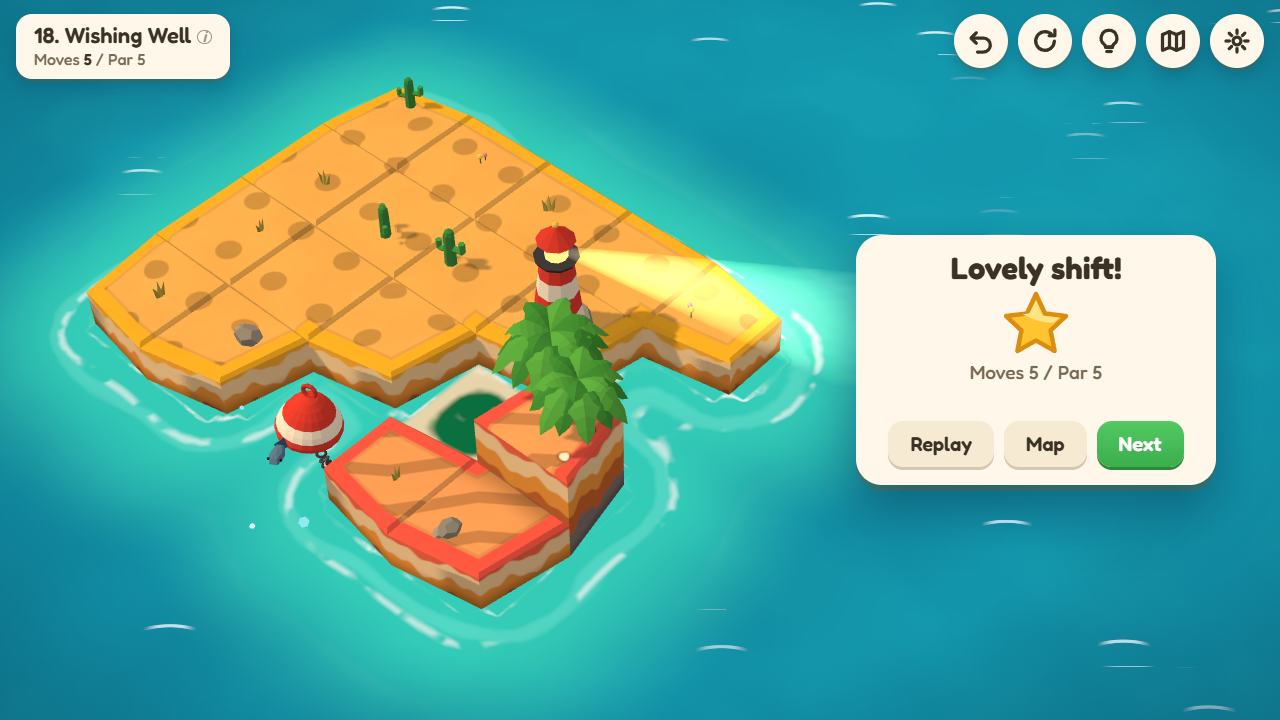
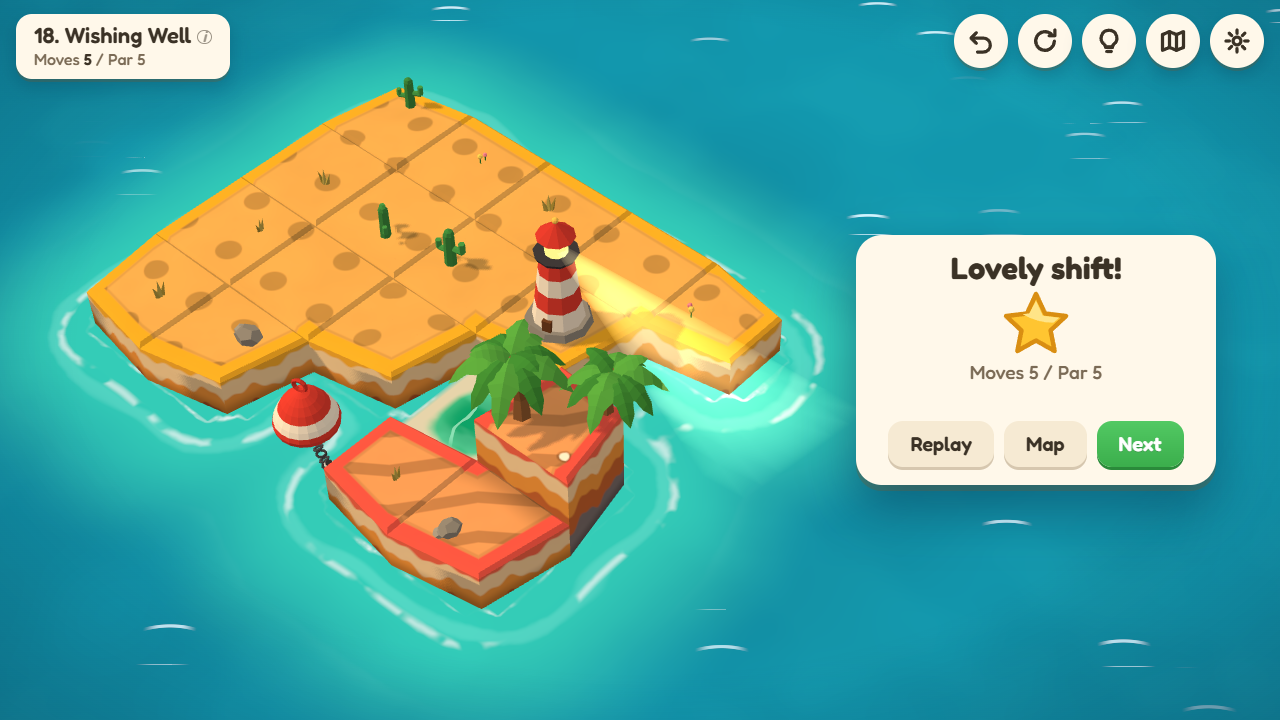
Lake, palms, penguins and plate colours closer to the concepts; numbered locked pins
The lake was a dark sheet with pale dots: now clear jade with ripples and no surf. Palms read as two trees, penguins as three birds, meadow plates differ by surface as well as border, and the map numbers its locked islands. Press shots re-rendered.

Changed region(s): [[0.3125, 0.3056, 0.6875, 0.6417], [0.1875, 0.5194, 0.2812, 0.6417], [0.2188, 0.7028, 0.25, 0.7333]]

diff --git a/game/src/render/ocean.ts b/game/src/render/ocean.ts
@@ -169,9 +169,14 @@ const FRAG = /* glsl */`
     col += vec3(.62)*wl;
     // lake: still, green-teal water, its own colour
     // a sandy rim and a green unlike any sea, so a lake can't be taken for the shallows
-    vec3 lake = uLake*(.92+.2*n2) + vec3(.03,.09,.06)*smoothstep(.74,.98,sin(d*9.-t*.8+n2*3.));
+    // clear jade, luminous in the shallows: what an oasis longs for, where a dark green read as a swamp (playtest 15; concepts/lake-oasis-v1.png)
+    vec3 lake = mix(uLake + vec3(.05,.17,.09), uLake, smoothstep(.14,.3,d))*(.97+.06*n2);
+    // water, not a green floor: thin ripples drifting across it and a soft sheen (concept critic T1, Nov 6)
+    float rip = smoothstep(.93,.99,sin((p.x*.75-p.y*.66)*17.+fbm(p*2.3+vec2(t*.05,0.))*7.-t*.5));
+    lake += vec3(.26,.34,.3)*rip*smoothstep(.15,.3,d) + vec3(.05,.1,.08)*smoothstep(.5,.72,fbm(p*vec2(1.6,4.2)+vec2(t*.03,-t*.02)));
+    // a few small dark pads: pale round ones were the same mark as the plates' dots and the peaks' corner dots
     vec2 lp = p*2.2; vec2 li = floor(lp); float lr = h21(li+5.);
-    lake = mix(lake, vec3(.5,.86,.36), step(.62,lr)*(1.-smoothstep(.19,.22,length(fract(lp)-.5-(vec2(h21(li+9.),h21(li+2.))-.5)*.4))));
+    lake = mix(lake, vec3(.1,.46,.25), step(.84,lr)*(1.-smoothstep(.12,.145,length(fract(lp)-.5-(vec2(h21(li+9.),h21(li+2.))-.5)*.4))));
     lake = mix(lake, vec3(.8,.66,.4), smoothstep(.2,.13,d));
     col = mix(col, lake, m.g);
     // rift floor before the sea reaches it
@@ -193,7 +198,7 @@ const FRAG = /* glsl */`
     }
     // under land nobody sees water, except where a hidden neighbour stands: there it must be plain sea, not a raft of foam
     float fm = max(max(foam, ring*.5)*(1.-wet), front*.9)*smoothstep(0.,.04,dist);
-    col = mix(col, vec3(.96,.99,1.), fm*(1.-.35*m.g));
+    col = mix(col, vec3(.96,.99,1.), fm*(1.-m.g)); // a still lake has no surf: this foam read as chalk on it (critic T1, Nov 6)
     gl_FragColor = vec4(col,1.);
     #include <colorspace_fragment>
   }
@@ -207,7 +212,7 @@ export class Ocean {
       uTime: time, uAlone: { value: 0 }, uStatic: { value: staticMask.tex }, uStaticB: { value: staticMask.bounds },
       uActive: { value: activeMask.tex }, uActiveB: { value: activeMask.bounds },
       uDeep: { value: new Color('#0e7fae') }, uShallow: { value: new Color('#1fcdcf') },
-      uLake: { value: new Color('#0b6f3f') }, uFloor: { value: new Color('#b58a57') }, uRange: { value: MASK_RANGE }, uMotion: { value: 1 },
+      uLake: { value: new Color('#0fa467') }, uFloor: { value: new Color('#b58a57') }, uRange: { value: MASK_RANGE }, uMotion: { value: 1 },
     };
     const g = new PlaneGeometry(6000, 6000); g.rotateX(-Math.PI / 2);
     this.mesh = new Mesh(g, new ShaderMaterial({ vertexShader: VERT, fragmentShader: FRAG, uniforms: this.uniforms }));

diff --git a/game/src/render/creatures.ts b/game/src/render/creatures.ts
@@ -119,12 +119,12 @@ export class Creature {
       const chain = mesh(M.buoyChain); chain.userData.noXray = true; this.root.add(chain); // on the root: the chain stays down when the buoy bobs or leans. No silhouette: through land its links drew as tangled loops (taste critic, Nov 5)
       for (let i = 0; i < 2; i++) { const f = mesh(M.fish, false); f.visible = false; this.root.add(f); this.fish.push({ m: f, t: 9, a: Math.random() * 6 }); }
     } else if (this.kind === 'oasis') {
-      for (const [dx, dz, s, r] of [[-.2, -.12, 1.05, .4], [.18, .08, .92, 2.8]] as const) {
+      for (const [dx, dz, s, r] of [[-.2, .11, 1.05, 2.6], [.2, -.11, .92, -.5]] as const) { // apart across the view, so two crowns read as two trees
         const g = new Group(); g.position.set(dx, 0, dz); g.scale.setScalar(s); g.rotation.y = r;
         const ok = mesh(M.palm), wilt = mesh(M.palmWilt); g.add(ok, wilt); b.add(g); this.palms.push({ ok, wilt, g });
       }
     } else {
-      for (const [x, z, a] of [[-.17, -.1, .4], [.17, -.06, -.3], [0, .17, .1]] as const) {
+      for (const [x, z, a] of [[-.21, .02, .4], [.2, -.14, -.3], [.06, .2, .1]] as const) { // spread across the cell as the camera sees it: at normal size the old huddle was one dark lump (concept critic T4, Nov 6)
         const g = new Group(); g.add(mesh(M.penguin)); g.position.set(x, 0, z); g.rotation.order = 'YXZ'; g.rotation.y = a; b.add(g);
         this.pens.push({ g, x, z, a });
       }

diff --git a/game/src/render/palette.ts b/game/src/render/palette.ts
@@ -31,11 +31,11 @@ export const DAYLIGHT: Record<BiomeName, DayLight> = {
 
 export interface BiomeLook { ground: string; mix: number; rock: string; sand: string; sea: [string, string]; accent: string; label: string }
 export const BIOMES: Record<BiomeName, BiomeLook> = {
-  meadow: { ground: '#7ccb46', mix: 0.1, rock: '#8d8a84', sand: '#c9a56b', sea: ['#1298ad', '#22cfc9'], accent: '#6cbf3c', label: 'Meadow' },
+  meadow: { ground: '#7ccb46', mix: 0.24, rock: '#8d8a84', sand: '#c9a56b', sea: ['#1298ad', '#22cfc9'], accent: '#6cbf3c', label: 'Meadow' },
   coast: { ground: '#ecd59a', mix: 0.2, rock: '#9b9184', sand: '#e9d29a', sea: ['#0f93bd', '#35dbd9'], accent: '#2fa9d6', label: 'Coast' },
   desert: { ground: '#efb066', mix: 0.3, rock: '#b08660', sand: '#f0cd8a', sea: ['#118da3', '#35cfb8'], accent: '#e8953a', label: 'Desert' },
   tundra: { ground: '#eef3f8', mix: 0.13, rock: '#7e8794', sand: '#cfd9e2', sea: ['#17749c', '#3cb4d0'], accent: '#7fc4ec', label: 'Tundra' },
-  finale: { ground: '#86c85a', mix: 0.14, rock: '#7f7a78', sand: '#d4b57a', sea: ['#27528f', '#3fa9c4'], accent: '#a06be0', label: 'The Last Islands' },
+  finale: { ground: '#86c85a', mix: 0.26, rock: '#7f7a78', sand: '#d4b57a', sea: ['#27528f', '#3fa9c4'], accent: '#a06be0', label: 'The Last Islands' },
 };
 
 export const color = (hex: string) => new Color(hex).convertSRGBToLinear();

diff --git a/game/src/ui/style.css b/game/src/ui/style.css
@@ -125,7 +125,7 @@ body.calm #ui *, body.calm #ui *::before, body.calm #ui *::after { animation: no
 .pin.next { background: #ffe58a; animation: pinglow 1.3s ease-in-out infinite; }
 @keyframes pinglow { 50% { box-shadow: 0 0 0 9px rgba(255, 215, 80, .55), var(--sh); } }
 .pin svg.st { position: absolute; right: -9px; top: -9px; width: 23px; height: 23px; }
-.pin svg.lock { width: 17px; height: 17px; fill: #6f6c66; }
+.pin svg.lock { position: absolute; right: -6px; top: -7px; width: 18px; height: 18px; padding: 2px; border-radius: 50%; background: #d6d3cc; fill: #6f6c66; box-shadow: 0 1px 2px rgba(4, 45, 70, .3); }
 .pin.locked { width: 28px; height: 28px; }
 .pin svg.flag { position: absolute; left: -7px; top: -14px; width: 20px; height: 22px; }
 .biome-label { position: absolute; left: 0; top: 0; pointer-events: none; font-weight: 600; font-size: 17px; padding: 4px 12px; background: var(--cream); border-radius: 11px; box-shadow: var(--sh); white-space: nowrap; }

diff --git a/game/src/app.ts b/game/src/app.ts
@@ -325,7 +325,7 @@ class App {
       const el = this.pinEls[i];
       if (el) {
         el.className = `pin${unlocked ? '' : ' locked'}${unlocked && !solved && i === next ? ' next' : ''}`;
-        el.innerHTML = unlocked ? `${i + 1}${solved ? icon.flag : ''}${rec?.stars ? icon.star.replace('<svg', '<svg class="st"') : ''}` : icon.lock;
+        el.innerHTML = unlocked ? `${i + 1}${solved ? icon.flag : ''}${rec?.stars ? icon.star.replace('<svg', '<svg class="st"') : ''}` : `${i + 1}${icon.lock}`; // a number as well: a whole row of bare locks hid how far the journey goes
         el.setAttribute('aria-label', `Island ${i + 1}, ${this.levels[i].name}${unlocked ? '' : ', locked'}`);
         // on hover (style.css): names are half the charm, and the numbers say which stars are still out there
         el.dataset.name = !unlocked ? 'Locked' : rec?.solved ? `${this.levels[i].name} · best ${rec.best} / par ${this.levels[i].par}` : this.levels[i].name!;

diff --git a/game/src/render/models.ts b/game/src/render/models.ts
@@ -152,7 +152,7 @@ const fronds = (ox: number, oy: number, cA: string, cB: string, n = 8, w = 1, dr
 };
 export const palm = merge([
   seg(0.004, 0.07, 0.08, 0.036, 0.052, 0.14, '#8c5f39'), seg(0.022, 0.2, 0.2, 0.03, 0.037, 0.14, '#7d5431'), seg(0.058, 0.325, 0.36, 0.026, 0.031, 0.13, '#8c5f39'),
-  ...fronds(0.085, 0.385, '#58b04a', '#3f923c', 13, 1.6, .9, 1, 6),
+  ...fronds(0.085, 0.385, '#58b04a', '#3f923c', 9, 1.35, .9, 1, 3), // a sparser crown: thirteen wide fronds on two palms made one green mass with no trunks (concept critic T2, Nov 6)
 ]);
 // Unhappy: the trunk bows over until its crown lies on the sand (concepts/shiftland-creatures.png).
 export const palmWilt = merge([

diff --git a/docs/qa.md b/docs/qa.md
@@ -148,6 +148,21 @@ All seven solved; stars on 1 and 2, hints on the rest, as told to be impatient. 
 | P17-4 | The empty star's line is small on the card | Kept: read at 1280x720 it is legible, and a stronger line would nag |
 | P17-5 | Buoy behind the goat and a tall block (`i5h3.png`) | Kept: as P14-6 |
 
+### The game against its concepts (taste critic, Nov 6, runs `20261106-135042-3f26ce`, `20261106-135340-4af8c4`)
+
+One solved island per biome against `concepts/shiftland-biomes.png` and `shiftland-creatures.png`, after playtest 15 called the lake murky. Verdict after the fixes: ship.
+
+| Id | Finding | Result |
+|---|---|---|
+| T1 | The lake was a dark green sheet with pale dots: it read as swamp, then as dotted land | Fixed: clear jade with lighter shallows and thin drifting ripples, no surf, a few small dark pads (pale ones were the same mark as the plates' dots). Still green, since the sea is turquoise and creatures tell them apart. `concepts/lake-oasis-v1.png`, `v2-sheet.png` |
+| T2 | Two palms merged into one green mass | Fixed: a sparser crown, and the two stand apart across the view, trunks showing |
+| T3 | Goats are long and blocky against the sheet | Kept: Victor played with them and approved, and they suit the voxel creatures |
+| T4 | Three penguins were one dark lump | Fixed: spread across the cell as the camera sees it |
+| T5 | The zigzag plate's green is louder than its neighbours in the meadow; a later pass against the HUD concept said the opposite, that all plates are "variations of green" | Fixed both: meadow and finale plates take more of their own hue (`mix` .1 to .24, .14 to .26), so yellow-green, olive and sea-green read apart by surface as well as border (`mix-sheet.png`) |
+| T6 | Stripes "zigzag across tile joins" | Not a fault: parallel in the shot it names (`final\mouse\09.png`) |
+
+Title, map, level and win card against the title and HUD concepts (run `20261106-135514-ac4fe5`): locked map pins lost their numbers, fixed with number and a small lock (`map-1280.png`). Kept: map thumbnails stay real miniature boards, with locked ones faded; cell seams stay because players count cells; the win card hides the goal cards to leave the finished board clear; confetti does run on a win, the shot was taken after it; the goat as T3. The sea's thin dashes, called scratchy (minor), stay as the sea's texture.
+
 ### Code review of the day's diff (fresh-eyes reviewer, Nov 6)
 
 Nine defects, none blocking, all fixed; e2e `after a hint the arrows…`, `the first island keeps its lesson…`, unit `opens nothing extra…`.

diff --git a/docs/release.md b/docs/release.md
@@ -31,7 +31,7 @@ Playwright, no account, on `https://thechosenvictor.itch.io/shiftland`: Chromium
 
 - The first run at a 1280x720 frame found itch's Follow, Add To Collection and Related games buttons over the game's top-right buttons, and the frame overflowing a 1024-wide window. Fixed on the page, not in the game: frame 960x540 and a 100 px banner above it (`itch-page.md`). Rerun: `box.y` 120, below the buttons, at all three sizes; the frame fits the 1024 window.
 - All 26 islands at 960x540 on the production build: 0 errors, HUD boxes logged (rerun Nov 6, session scratch `sweep540.mjs`; the 25-island contact sheets are `sweep540\sheet1.png`, `sheet2.png`).
-- Redeployed Nov 6 at 12:00 with the 26-island build (upload 20320461, zip sha256 `8e9672c1...e9bd9`): the same three logged-out plays pass, 12 of 13 files byte-identical, `index.html` differs only by itch's `htmlgame.js` tag.
+- Live build, Nov 6 at 13:41: upload 20321826, zip sha256 `f2feebaf...26987`, commit `f55392a`. The same three logged-out plays pass, 12 of 13 files are byte-identical, and `index.html` differs only by itch's `htmlgame.js` tag.
 - Firefox logs `NotSupportedError: Operation is not supported` when itch's fullscreen button is clicked (3 of 3 runs with the click, 0 of 4 without). It is an unhandled rejection on itch's top page, not in the game's frame, and fullscreen still works. Not ours to fix.
 - Served files: 12 of the zip's 13 files are byte-identical on itch's server; `index.html` differs only by the one `htmlgame.js` tag itch appends.
 
